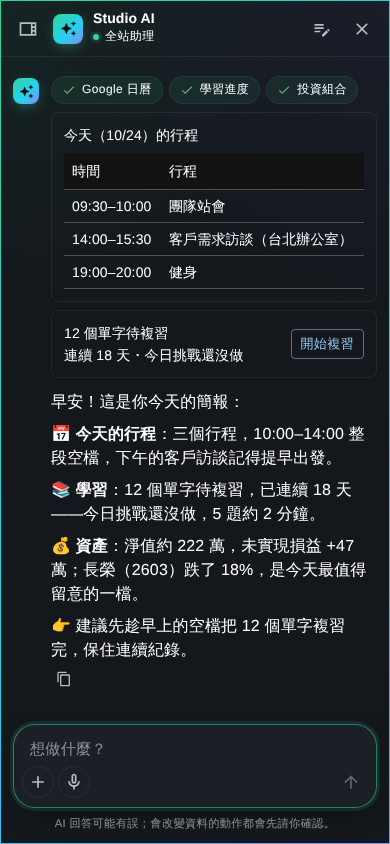
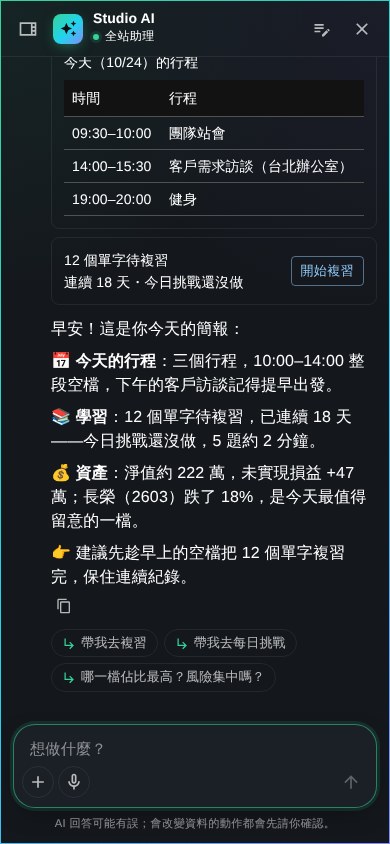
docs(ai-native): 今日簡報截圖更新（回答下方的接著問）、NEXT 確認 Finance 工具名稱 [skip ci]
Claude-Session: https://claude.ai/code/session_01EboJPc3nqPnHw99DjR3KSp

diff --git a/docs/ai-native/NEXT.md b/docs/ai-native/NEXT.md
@@ -20,7 +20,7 @@
 1. **Data Analysis 的「帶我去」**（中，選做）：AI 存完 dashboard 後的連結卡可以用 `go` 直接打開該 dashboard？目前只有 Studio 的 `open_page` 會送 navigate；Data Analysis 的 `SaveToDashboardTool` 若要用，要在 /data-analysis 的面板接 `onNavigate`（`AiAssistantLauncher` 要把它傳下去），且只在使用者明確說「存完打開」時。先評估值不值得。
 2. **全站巡檢（中）**：用 `.loop/shots/*.cjs` 重拍所有 SHOWCASE 截圖，桌機＋手機，逐張看：文字是否被截斷、深淺色、空狀態。發現的問題直接修。
 3. **SHOWCASE 定稿**（11/4–11/5）：最終統計（輪數、commit 數：`git rev-list --count --no-merges origin/master..HEAD`）、demo 腳本走一遍、合併檢查清單再對一次 migration 清單（`git diff --stat origin/master -- JackyAIApp.Server/Data/Migrations`）。
-4. **（選做）Finance 的接著問**：目前只依 `get_stock_history`／`get_technical_indicators`／`get_realtime_quote` 與兩個財報工具。若 tw-stock MCP 的工具名稱跟 TWStock server 不同，接著問就不會出現（無害）；有空時確認 `AnthropicChatService.AlwaysLoadedTools` 與 log 裡的實際名稱。
+4. ~~Finance 的接著問的工具名稱~~：已確認與 `AnthropicChatService.AlwaysLoadedTools` 一致（`get_realtime_quote`、`get_stock_history`、`get_technical_indicators`）；hosted 工具沒有 tool_result，回答結束時 `settleToolSteps` 把它們標成完成，所以接著問會出現（面板測試涵蓋）。
 
 ## 3. 已經做好的零件
 
